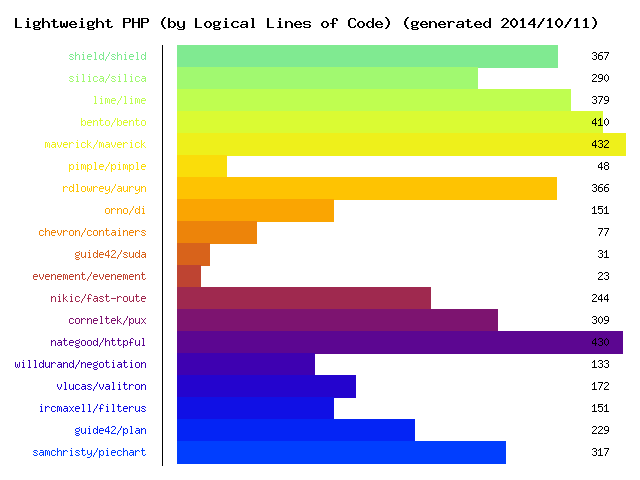
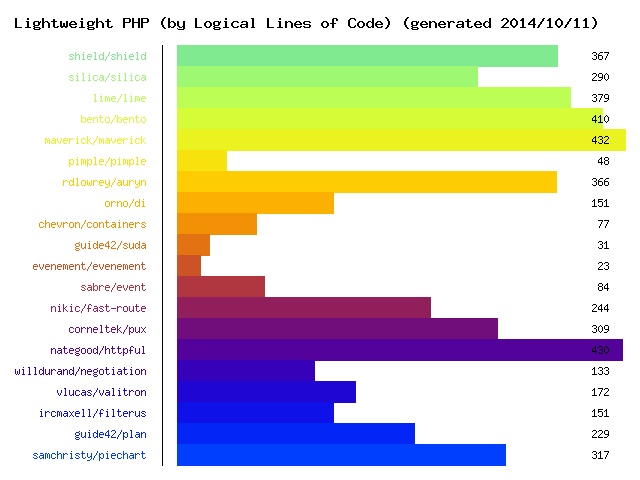
Add Sabre Event

diff --git a/README.md b/README.md
@@ -33,6 +33,7 @@ List of lightweight PHP libraries.
 ## Events
 
 * [Événement](https://github.com/igorw/evenement) - Very simple event dispatching library
+* [Sabre Event](https://github.com/fruux/sabre-event) - A library for lightweight event-based programming
 
 ## Routing
 
